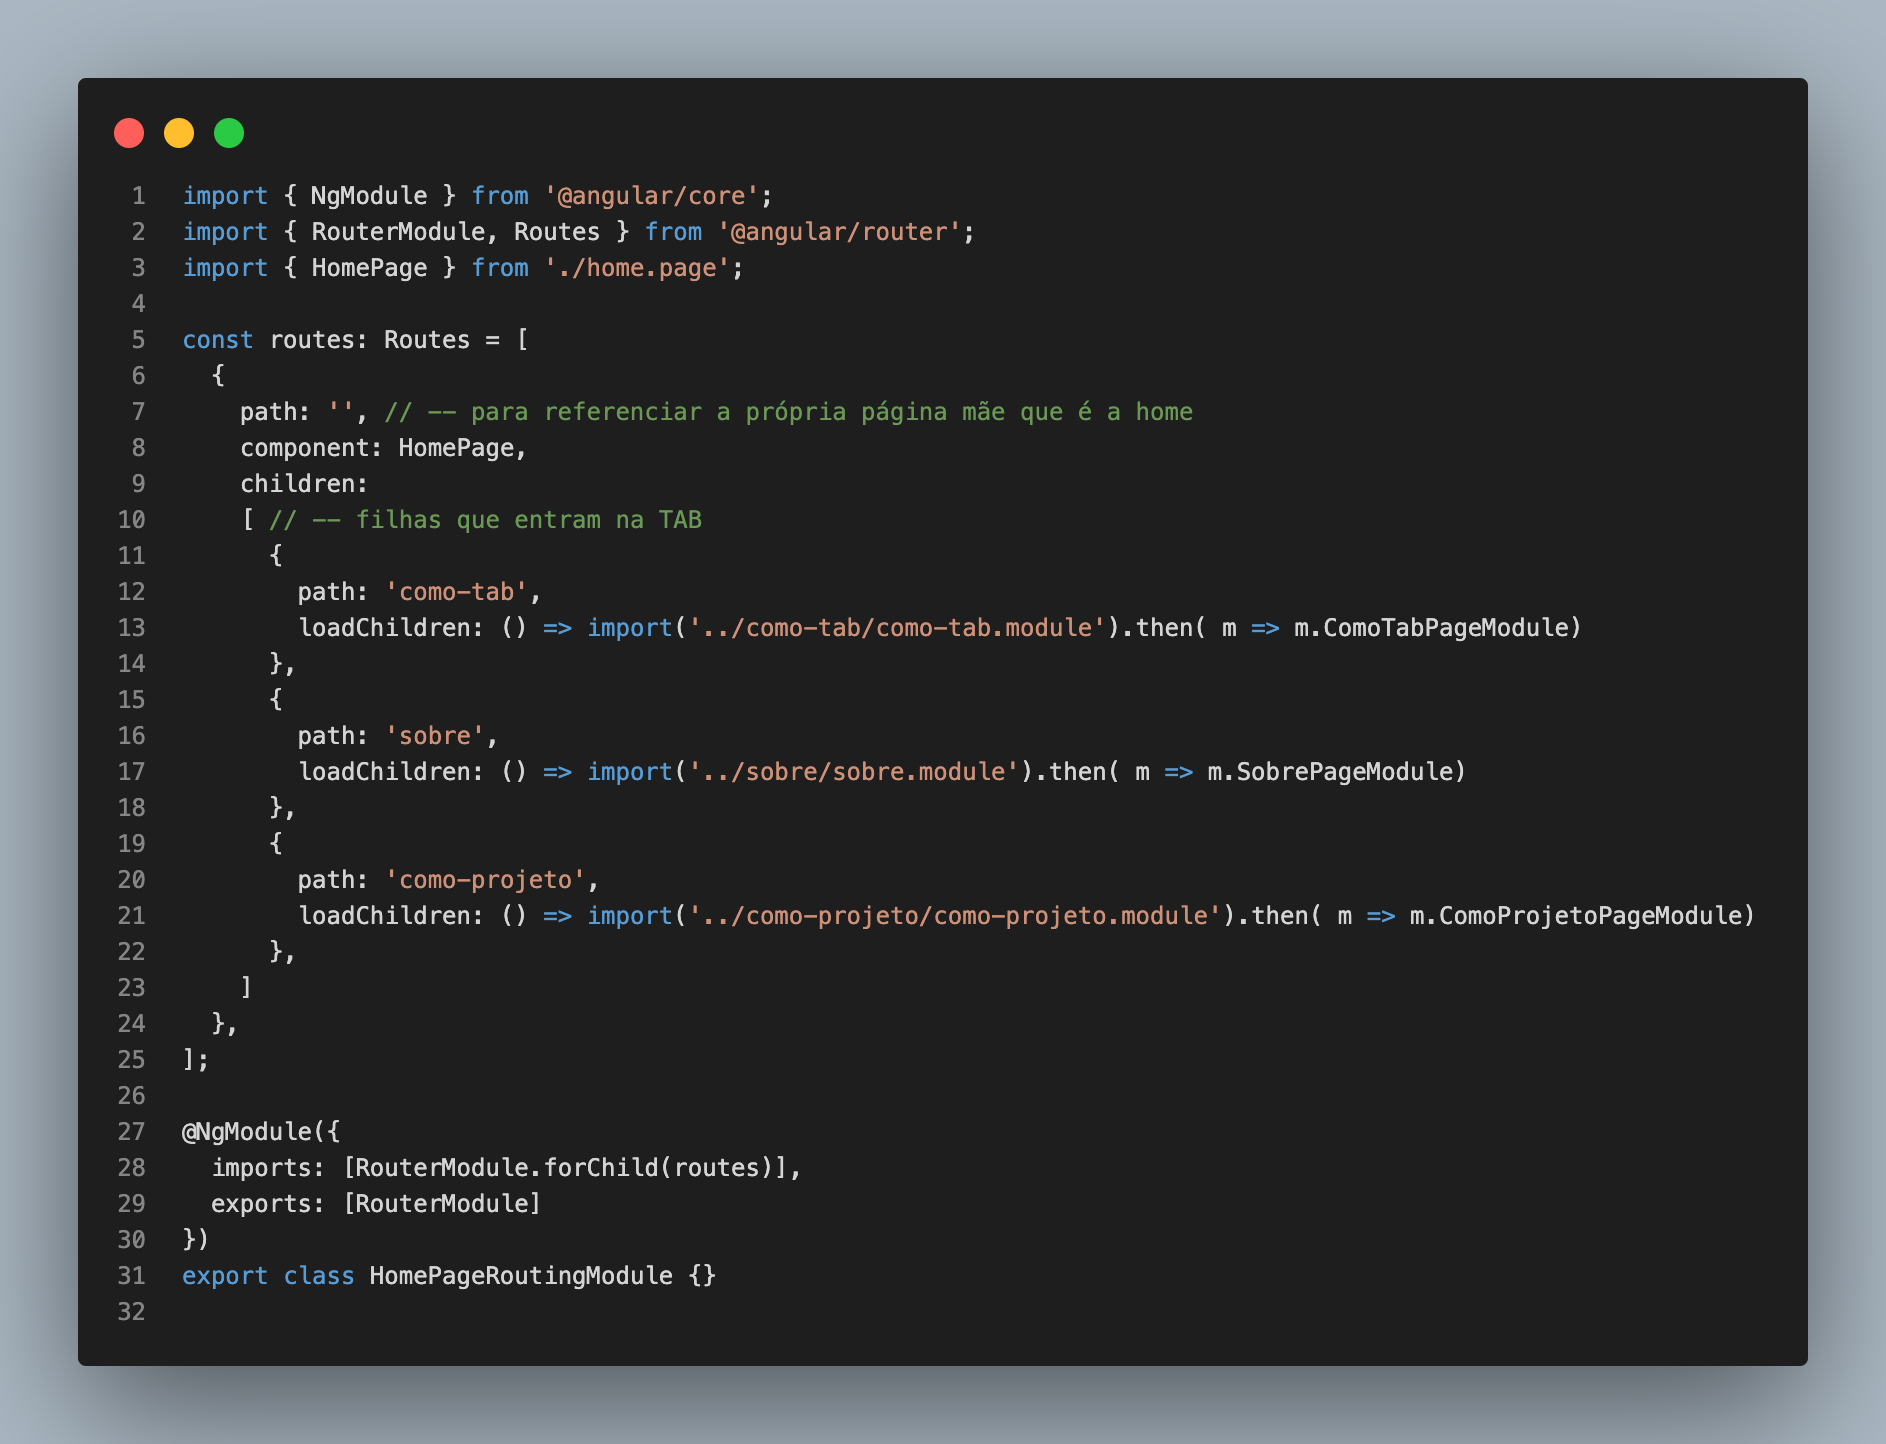
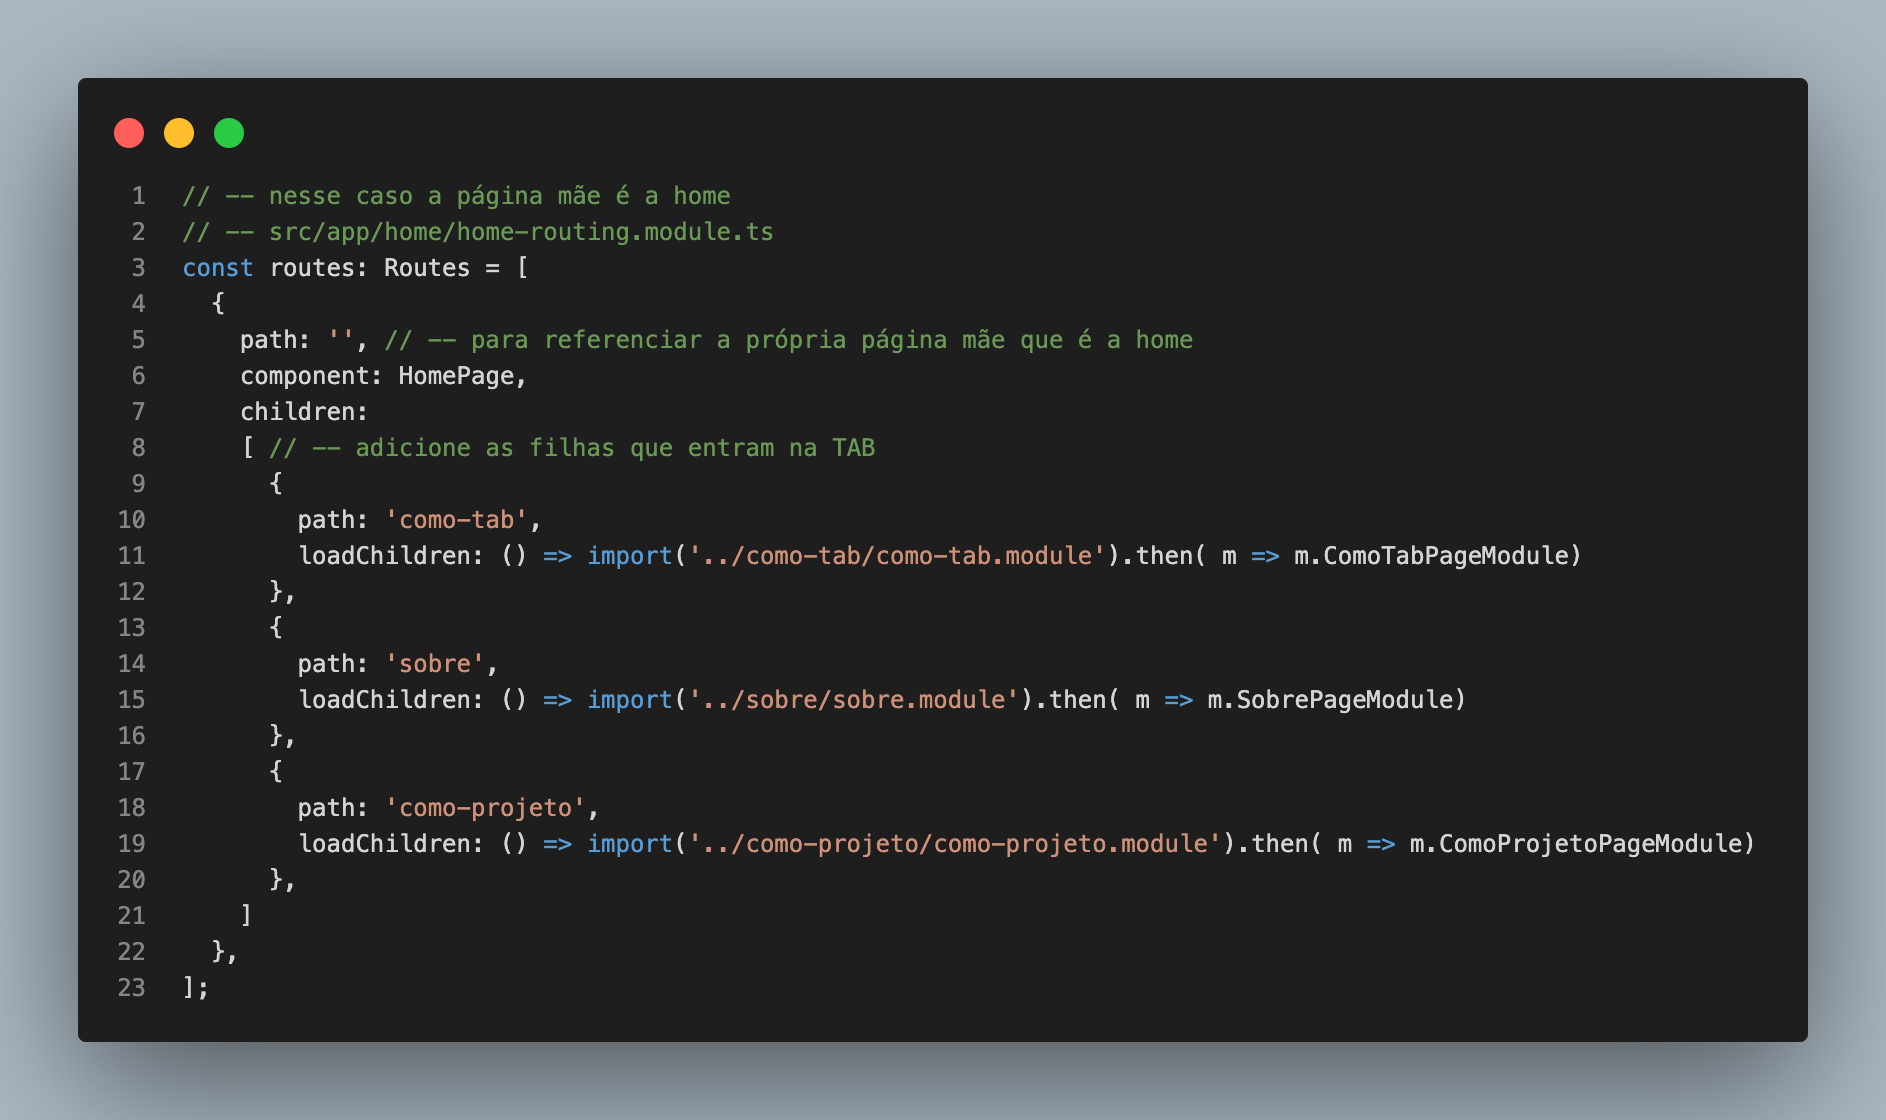
adicione um header e conteúdo na pagina home

diff --git a/src/app/home/home.page.html b/src/app/home/home.page.html
@@ -1,23 +1,78 @@
 <ion-app>
-  <ion-header [translucent]="true">
+  <!-- header -->
+  <ion-header 
+  [translucent]="true">
     <ion-toolbar>
-      <ion-title>
-        Blank
-      </ion-title>
+      <ion-buttons>
+        <ion-button 
+          slot="start"
+          target="_blank" 
+          href="https://github.com/d-llirium/forca-na-peruca-v3">
+          <ion-label
+          color="favorite">
+            ://força na peruca
+          </ion-label>
+        </ion-button>  
+        <ion-button 
+        slot="end" 
+        routerLink="/cadastrar">
+          <ion-icon 
+            name="add-circle-outline">
+          </ion-icon>
+        </ion-button>
+        <!-- fab button -->
+        <ion-fab 
+          horizontal="end" 
+          vertical="center" 
+          slot="fixed">
+          <ion-fab-button 
+            size="small" 
+            color="clear">
+            <ion-icon 
+              name="caret-back-outline" 
+              size="small" 
+              color="favorite" 
+              edge="true">
+            </ion-icon>
+          </ion-fab-button>
+          <!-- fab list -->
+          <ion-fab-list 
+            side="start" 
+            activated="true">
+            <ion-fab-button 
+              href="/map">
+              <ion-icon 
+                color="secondary" 
+                name="map-outline">
+              </ion-icon>
+            </ion-fab-button>
+          </ion-fab-list>
+        </ion-fab>
+      </ion-buttons>
     </ion-toolbar>
   </ion-header>
-  <ion-content [fullscreen]="true">
-    <ion-header collapse="condense">
-      <ion-toolbar>
-        <ion-title size="large">Blank</ion-title>
-      </ion-toolbar>
-    </ion-header>
-
-    <div id="container">
-      <strong>Ready to create an app?</strong>
-      <p>Start with Ionic <a target="_blank" rel="noopener noreferrer" href="https://ionicframework.com/docs/components">UI Components</a></p>
-    </div>
-    <!-- tabs: adiciona os filhos da pag --> 
+  <!-- content: é parte "rolável" do app-->  
+  <ion-content 
+    [fullscreen]="true"> 
+    <!-- card -->
+    <ion-card>
+      <ion-card-header>
+        <ion-card-title>
+          Pronto para criar um aplicativo?
+        </ion-card-title>
+        <ion-card-subtitle>
+          . Comece com Ionic UI Components
+        </ion-card-subtitle>
+      </ion-card-header>
+      <ion-card-content>
+        <ion-img 
+          src="https://c.tenor.com/dGKAO486sB8AAAAd/ugh-mr-dinkles.gif">
+        </ion-img>
+      </ion-card-content>
+    </ion-card>
+    <!-- no html da página mãe = que no caso é a home -->
+    <!-- src/app/home/home.page.html -->
+    <!-- tabs: adiciona os filhos da pag no final do content --> 
     <ion-tabs> 
       <ion-tab-bar>
         <ion-tab-button 
@@ -33,9 +88,11 @@
           </ion-icon>
         </ion-tab-button>
         <ion-tab-button 
-          tab="como-tab">
+          tab="como-tab"
+          layout="icon-start">
           <ion-icon 
-            name="sparkles-outline">
+            name="sparkles-outline"
+            color="favorite">
           </ion-icon>
         </ion-tab-button>
       </ion-tab-bar>

diff --git a/src/app/home/home-routing.module.ts b/src/app/home/home-routing.module.ts
@@ -1,13 +1,14 @@
 import { NgModule } from '@angular/core';
 import { RouterModule, Routes } from '@angular/router';
 import { HomePage } from './home.page';
-
+// -- nesse caso a página mãe é a home
+// -- src/app/home/home-routing.module.ts
 const routes: Routes = [
   {
     path: '', // -- para referenciar a própria página mãe que é a home
     component: HomePage,
     children: 
-    [ // -- filhas que entram na TAB
+    [ // -- adicione as filhas que entram na TAB
       {
         path: 'como-tab',
         loadChildren: () => import('../como-tab/como-tab.module').then( m => m.ComoTabPageModule)

diff --git a/src/app/app.component.scss b/src/app/app.component.scss
@@ -25,3 +25,32 @@
 #container a {
   text-decoration: none;
 }
+
+ion-header
+{
+    ion-buttons
+    {
+        ion-button
+        {
+            color: clear;
+            
+            ion-label
+            {
+                color: var(--ion-label-color);
+            }
+            ion-icon
+            {
+                color: var(--ion-color-favorite);
+            }
+        }
+    }
+
+}
+ion-card-title
+{
+    color: var(--ion-color-favorite);
+    
+    text-align: center;
+    font-size: 25px;
+    font-weight: bold;
+}

diff --git a/src/theme/variables.scss b/src/theme/variables.scss
@@ -110,9 +110,9 @@
 
   /** favorite **/
   --ion-color-favorite: #ff00ff;
-  --ion-color-favorite-rgb: 255,0,255;
+  --ion-color-favorite-rgb: 255, 0, 255;
   --ion-color-favorite-contrast: #e0ac08;
-  --ion-color-favorite-contrast-rgb: 224,172,8;
+  --ion-color-favorite-contrast-rgb: 224, 172, 8;
 }
 
 @media (prefers-color-scheme: dark) {

diff --git a/src/app/home/home.page.scss b/src/app/home/home.page.scss
@@ -1,1 +1,3 @@
+// -- no page.css de cada página
+// -- importa o app.component.scss para padronizar o estilo
 @import "src/app/app.component.scss";
